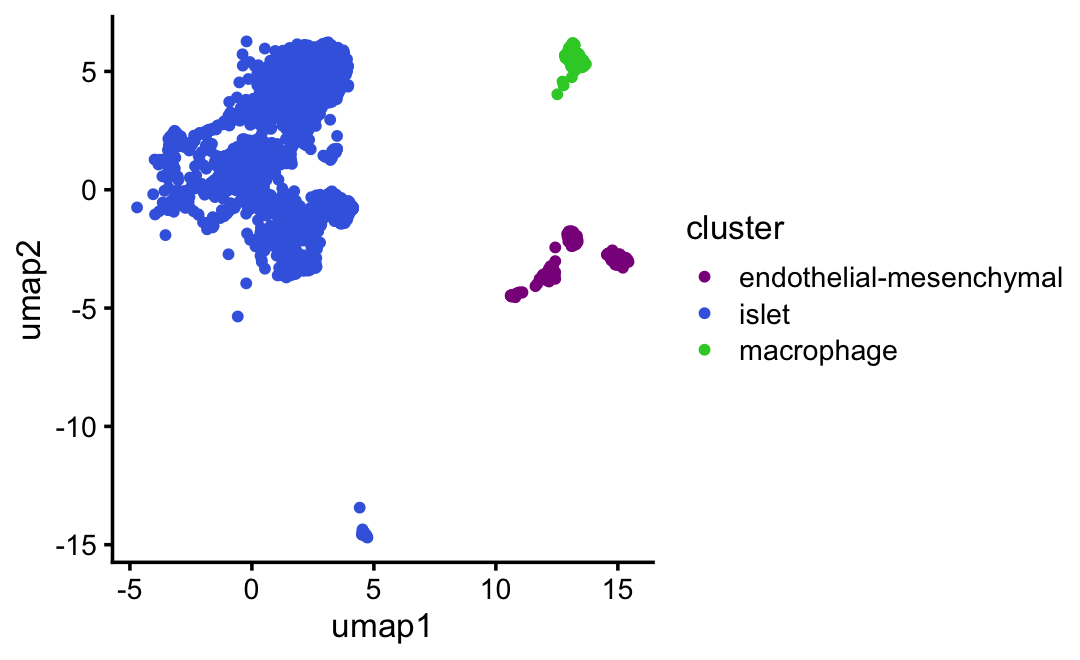
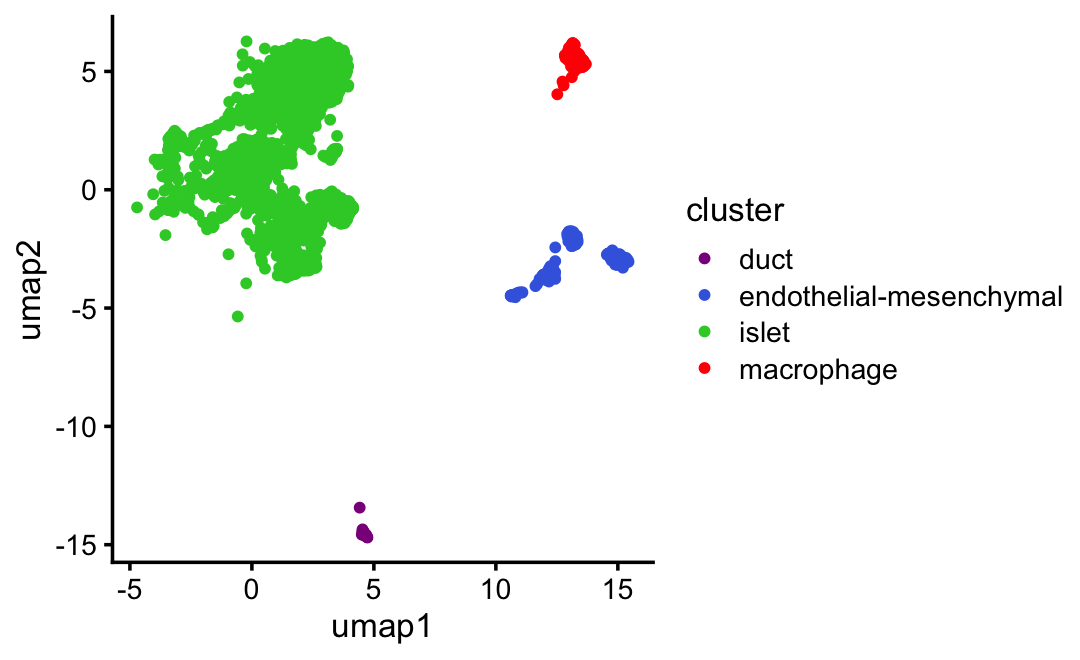
Ran wflow_publish("pancreas_cytokine.Rmd").

diff --git a/docs/pancreas_cytokine.html b/docs/pancreas_cytokine.html
@@ -433,15 +433,15 @@ project makes it easier to run your code on other machines.</p>
 <div class="panel panel-default">
 <div class="panel-heading">
 <p class="panel-title">
-<a data-toggle="collapse" data-parent="#workflowr-checks" href="#strongRepositoryversionstrongahrefhttpsgithubcomstephenslabsinglecelljamboreetreeffad5cdff21ce9cf92bdce3b7e2f58a178e56b6dtargetblankffad5cda">
+<a data-toggle="collapse" data-parent="#workflowr-checks" href="#strongRepositoryversionstrongahrefhttpsgithubcomstephenslabsinglecelljamboreetreebd56aae130ef81c23a980f3bdf16ba1096210c2ctargetblankbd56aaea">
 <span class="glyphicon glyphicon-ok text-success"
 aria-hidden="true"></span> <strong>Repository version:</strong>
-<a href="https://github.com/stephenslab/single-cell-jamboree/tree/ffad5cdff21ce9cf92bdce3b7e2f58a178e56b6d" target="_blank">ffad5cd</a>
+<a href="https://github.com/stephenslab/single-cell-jamboree/tree/bd56aae130ef81c23a980f3bdf16ba1096210c2c" target="_blank">bd56aae</a>
 </a>
 </p>
 </div>
 <div
[2 lines of base64/hex data omitted]
 class="panel-collapse collapse">
 <div class="panel-body">
 <p>
@@ -451,7 +451,7 @@ reproducibility.
 </p>
 <p>
 The results in this page were generated with repository version
-<a href="https://github.com/stephenslab/single-cell-jamboree/tree/ffad5cdff21ce9cf92bdce3b7e2f58a178e56b6d" target="_blank">ffad5cd</a>.
+<a href="https://github.com/stephenslab/single-cell-jamboree/tree/bd56aae130ef81c23a980f3bdf16ba1096210c2c" target="_blank">bd56aae</a>.
 See the <em>Past versions</em> tab to see a history of the changes made
 to the R Markdown and HTML files.
 </p>
@@ -468,17 +468,12 @@ were generated:
 Untracked files:
     Untracked:  analysis/lps_cache/
     Untracked:  analysis/mcf7_cache/
-    Untracked:  analysis/pancreas_cytokine_S1_factors_cache/
     Untracked:  analysis/temp2.R
     Untracked:  data/GSE132188_adata.h5ad.h5
     Untracked:  data/GSE183010/
     Untracked:  data/Immune_ALL_human.h5ad
-    Untracked:  data/pancreas_cytokine.RData
     Untracked:  data/pancreas_endocrine.RData
     Untracked:  data/pancreas_endocrine_alldays.h5ad
-
-Unstaged changes:
-    Modified:   analysis/pancreas_cytokine_S1_factors.Rmd
 
 </code></pre>
 <p>
@@ -524,6 +519,57 @@ Message
 </tr>
 </thead>
 <tbody>
+<tr>
+<td>
+Rmd
+</td>
+<td>
+<a href="https://github.com/stephenslab/single-cell-jamboree/blob/bd56aae130ef81c23a980f3bdf16ba1096210c2c/analysis/pancreas_cytokine.Rmd" target="_blank">bd56aae</a>
+</td>
+<td>
+Peter Carbonetto
+</td>
+<td>
+2025-06-11
+</td>
+<td>
+wflow_publish("pancreas_cytokine.Rmd", verbose = TRUE, view = FALSE)
+</td>
+</tr>
+<tr>
+<td>
+Rmd
+</td>
+<td>
+<a href="https://github.com/stephenslab/single-cell-jamboree/blob/980e6701b758327f1dc1a77637f47eaabc575179/analysis/pancreas_cytokine.Rmd" target="_blank">980e670</a>
+</td>
+<td>
+Peter Carbonetto
+</td>
+<td>
+2025-06-11
+</td>
+<td>
+Fixed the clustering for the pancreas_cytokine data slightly.
+</td>
+</tr>
+<tr>
+<td>
+html
+</td>
+<td>
+<a href="https://rawcdn.githack.com/stephenslab/single-cell-jamboree/dc6ef06b953e19a047f8e4a3bbc5ce1d08009c90/docs/pancreas_cytokine.html" target="_blank">dc6ef06</a>
+</td>
+<td>
+Peter Carbonetto
+</td>
+<td>
+2025-06-11
+</td>
+<td>
+Removed Malat1 from the pancreas_cytokine data set.
+</td>
+</tr>
 <tr>
 <td>
 Rmd
@@ -1114,7 +1160,8 @@ t-SNE. First, transform the counts into “shifted log counts”:</p>
 s &lt;- rowSums(counts)
 s &lt;- s/mean(s)
 shifted_log_counts &lt;- MatrixExtra::mapSparse(counts/(a*s),log1p)</code></pre>
-<p>Then project the cells onto the top 30 PCs:</p>
+<p>Then use the shifted log counts to project the cells onto the top 30
+PCs:</p>
 <pre class="r"><code>U &lt;- rsvd(shifted_log_counts,k = 30)$u</code></pre>
 <p>Now run UMAP on the 30 PCs:</p>
 <pre class="r"><code>Y &lt;- umap(U,n_neighbors = 30,metric = &quot;cosine&quot;,min_dist = 0.3,
@@ -1129,9 +1176,9 @@ samples$cluster[x &gt; -3 &amp; y &gt; 5]   &lt;- &quot;islet1&quot;
 samples &lt;- transform(samples,cluster = factor(cluster))</code></pre>
 <p>UMAP plot by cluster:</p>
 <pre class="r"><code>cluster_colors &lt;- c(&quot;darkmagenta&quot;,&quot;royalblue&quot;,&quot;limegreen&quot;,&quot;red&quot;,&quot;darkorange&quot;)
-samples$cluster          &lt;- &quot;islet&quot; # Gcg, Sst, Ins1, Ins2, Ppy, # Mafa, Mafb
-samples$cluster[y &lt; -16] &lt;- &quot;duct&quot;  # Krt19
-samples$cluster[x &gt; 11 &amp; y &gt; 4] &lt;- &quot;macrophage&quot; # Ccr5
+samples$cluster          &lt;- &quot;islet&quot; # Gcg, Sst, Ins1, Ins2, Ppy, Mafa, Mafb
+samples$cluster[y &lt; -13] &lt;- &quot;duct&quot;  # Krt19
+samples$cluster[x &gt; 11 &amp; y &gt; 3] &lt;- &quot;macrophage&quot; # Ccr5
 samples$cluster[x &gt; 10 &amp; y &gt; -6 &amp; y &lt; 0] &lt;- 
   &quot;endothelial-mesenchymal&quot; # Esam, Pecam1, Col1a1
 samples &lt;- transform(samples,cluster = factor(cluster))
@@ -1162,6 +1209,17 @@ Date
 </tr>
 </thead>
 <tbody>
+<tr>
+<td>
+<a href="https://github.com/stephenslab/single-cell-jamboree/blob/dc6ef06b953e19a047f8e4a3bbc5ce1d08009c90/docs/figure/pancreas_cytokine.Rmd/umap-plot-1-1.png" target="_blank">dc6ef06</a>
+</td>
+<td>
+Peter Carbonetto
+</td>
+<td>
+2025-06-11
+</td>
+</tr>
 <tr>
 <td>
 <a href="https://github.com/stephenslab/single-cell-jamboree/blob/e876f200425815e4f28291a50d1ad111886998ef/docs/figure/pancreas_cytokine.Rmd/umap-plot-1-1.png" target="_blank">e876f20</a>
@@ -1239,6 +1297,17 @@ Date
 </tr>
 </thead>
 <tbody>
+<tr>
+<td>
+<a href="https://github.com/stephenslab/single-cell-jamboree/blob/dc6ef06b953e19a047f8e4a3bbc5ce1d08009c90/docs/figure/pancreas_cytokine.Rmd/umap-plot-2-1.png" target="_blank">dc6ef06</a>
+</td>
+<td>
+Peter Carbonetto
+</td>
+<td>
+2025-06-11
+</td>
+</tr>
 <tr>
 <td>
 <a href="https://github.com/stephenslab/single-cell-jamboree/blob/e876f200425815e4f28291a50d1ad111886998ef/docs/figure/pancreas_cytokine.Rmd/umap-plot-2-1.png" target="_blank">e876f20</a>
@@ -1327,6 +1396,17 @@ Date
 </tr>
 </thead>
 <tbody>
+<tr>
+<td>
+<a href="https://github.com/stephenslab/single-cell-jamboree/blob/dc6ef06b953e19a047f8e4a3bbc5ce1d08009c90/docs/figure/pancreas_cytokine.Rmd/umap-plot-3-1.png" target="_blank">dc6ef06</a>
+</td>
+<td>
+Peter Carbonetto
+</td>
+<td>
+2025-06-11
+</td>
+</tr>
 <tr>
 <td>
 <a href="https://github.com/stephenslab/single-cell-jamboree/blob/e876f200425815e4f28291a50d1ad111886998ef/docs/figure/pancreas_cytokine.Rmd/umap-plot-3-1.png" target="_blank">e876f20</a>
